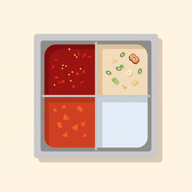
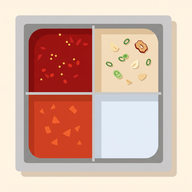
앱 아이콘 확대, 토마토 레시피 썸네일 추가 및 문구 정리
- 앱 아이콘(192/512/180) 훠궈 냄비가 꽉 차도록 확대 버전으로 교체
- 토마토계란국밥 → 토마토달걀밥으로 이름 변경
- 토마토달걀밥/토마토에그누들에 AI 일러스트 썸네일 추가 (그릇 중앙 정렬·동일 크기로 크롭, 출처 'Gemini AI')
- 두 레시피 설명의 '계란물' → '달걀물'
- 메기살덮밥 설명을 X 출처(#초콜렛밥, @user__) 포함 문구로 교체

diff --git a/script.js b/script.js
@@ -22,7 +22,7 @@
       ings: [['땅콩참깨소스', '2', '스푼'], ['스위트칠리소스', '1.5', '스푼'], ['태국고추', '2', '스푼'], ['마라시즈닝(고춧가루)', '1.5', '스푼'], ['다진파', '1.5', '집게'], ['다진마늘', '1', '스푼'], ['참기름', '2', '바퀴'], ['간장소스', '1', '바퀴'], ['오향우육(다진고기)', '1.5', '스푼'], ['깨', '', '적당히'], ['설탕', '', '한 꼬집'], ['땅콩가루', '', '한 꼬집']],
       steps: [],
       tip: '' },
-    { id: 'r1', cat: '밥', emoji: '🍚', img: 'assets/recipe card_메기살덮밥.png', imgFit: 'cover', tint: 'linear-gradient(160deg,#FFF6DC,#FCE4AE)', name: '메기살덮밥', source: 'X @dduuuu__', desc: '마라훠궈 국물에 익힌 메기살을 특제소스에 비빈 밥에 얹어 먹는 히든 메뉴.',
+    { id: 'r1', cat: '밥', emoji: '🍚', img: 'assets/recipe card_메기살덮밥.png', imgFit: 'cover', tint: 'linear-gradient(160deg,#FFF6DC,#FCE4AE)', name: '메기살덮밥', source: 'X @dduuuu__', desc: 'X에 \'#초콜렛밥\'이라는 해시태그를 걸고 @dduuuu__가 공개한 덮밥으로 마라훠궈 국물에 익힌 메기살을 특제소스에 비빈 밥에 얹어 먹는 히든 메뉴이다.',
       order: [['팡가시우메기', '1', '접시'], ['공깃밥', '1', '공기']],
       ings: [['참기름', '1', '스푼'], ['간장소스', '1', '스푼'], ['굴소스', '0.5', '스푼'], ['중국식초', '0.5', '스푼'], ['다진파', '1', '집게']],
       steps: [
@@ -31,7 +31,7 @@
         '충분히 익힌 메기살을 밥에 얹어 으깨 먹는다',
       ],
       tip: '느끼한 것 같으면 마라훠궈 국물 1숟가락을 밥에 추가하기' },
-    { id: 'r2', cat: '밥', emoji: '🍚', tint: 'linear-gradient(160deg,#FFE9E0,#FFC9B8)', name: '토마토계란국밥', desc: '녹진하게 끓인 토마토탕에 계란물을 풀어, 밥에 끼얹어 비벼 먹는 히든 메뉴.',
+    { id: 'r2', cat: '밥', emoji: '🍚', img: 'assets/recipe card_토마토달걀밥.png', imgFit: 'cover', tint: 'linear-gradient(160deg,#FFE9E0,#FFC9B8)', name: '토마토달걀밥', source: 'Gemini AI', desc: '녹진하게 끓인 토마토탕에 달걀물을 풀어, 밥에 끼얹어 비벼 먹는 히든 메뉴.',
       order: [['날계란', '1', '개'], ['공깃밥', '1', '공기']],
       ings: [['참기름', '0.5', '스푼'], ['오향우육(다진고기)', '2', '스푼'], ['다진파', '2', '집게']],
       steps: [
@@ -42,7 +42,7 @@
         '소스가 담긴 밥에 토마토계란탕을 끼얹어 비벼 먹는다',
       ],
       tip: '토마토탕 안에 토마토를 국자로 으깨주기' },
-    { id: 'n1', cat: '면', emoji: '🍜', tint: 'linear-gradient(160deg,#FFECDD,#FFC2A6)', name: '토마토에그누들', desc: '녹진하게 끓인 토마토탕에 계란물을 풀고 생면을 익혀 먹는 히든 메뉴.',
+    { id: 'n1', cat: '면', emoji: '🍜', img: 'assets/recipe card_토마토에그누들.png', imgFit: 'cover', tint: 'linear-gradient(160deg,#FFECDD,#FFC2A6)', name: '토마토에그누들', source: 'Gemini AI', desc: '녹진하게 끓인 토마토탕에 달걀물을 풀고 생면을 익혀 먹는 히든 메뉴.',
       order: [['날계란', '1', '개'], ['생면', '1', '인분']],
       ings: [['오향우육(다진고기)', '2', '스푼'], ['다진파', '2', '집게']],
       steps: [

diff --git a/index.html b/index.html
@@ -170,6 +170,6 @@
   </div>
 </div>
 
-<script src="script.js?v=37"></script>
+<script src="script.js?v=41"></script>
 </body>
 </html>